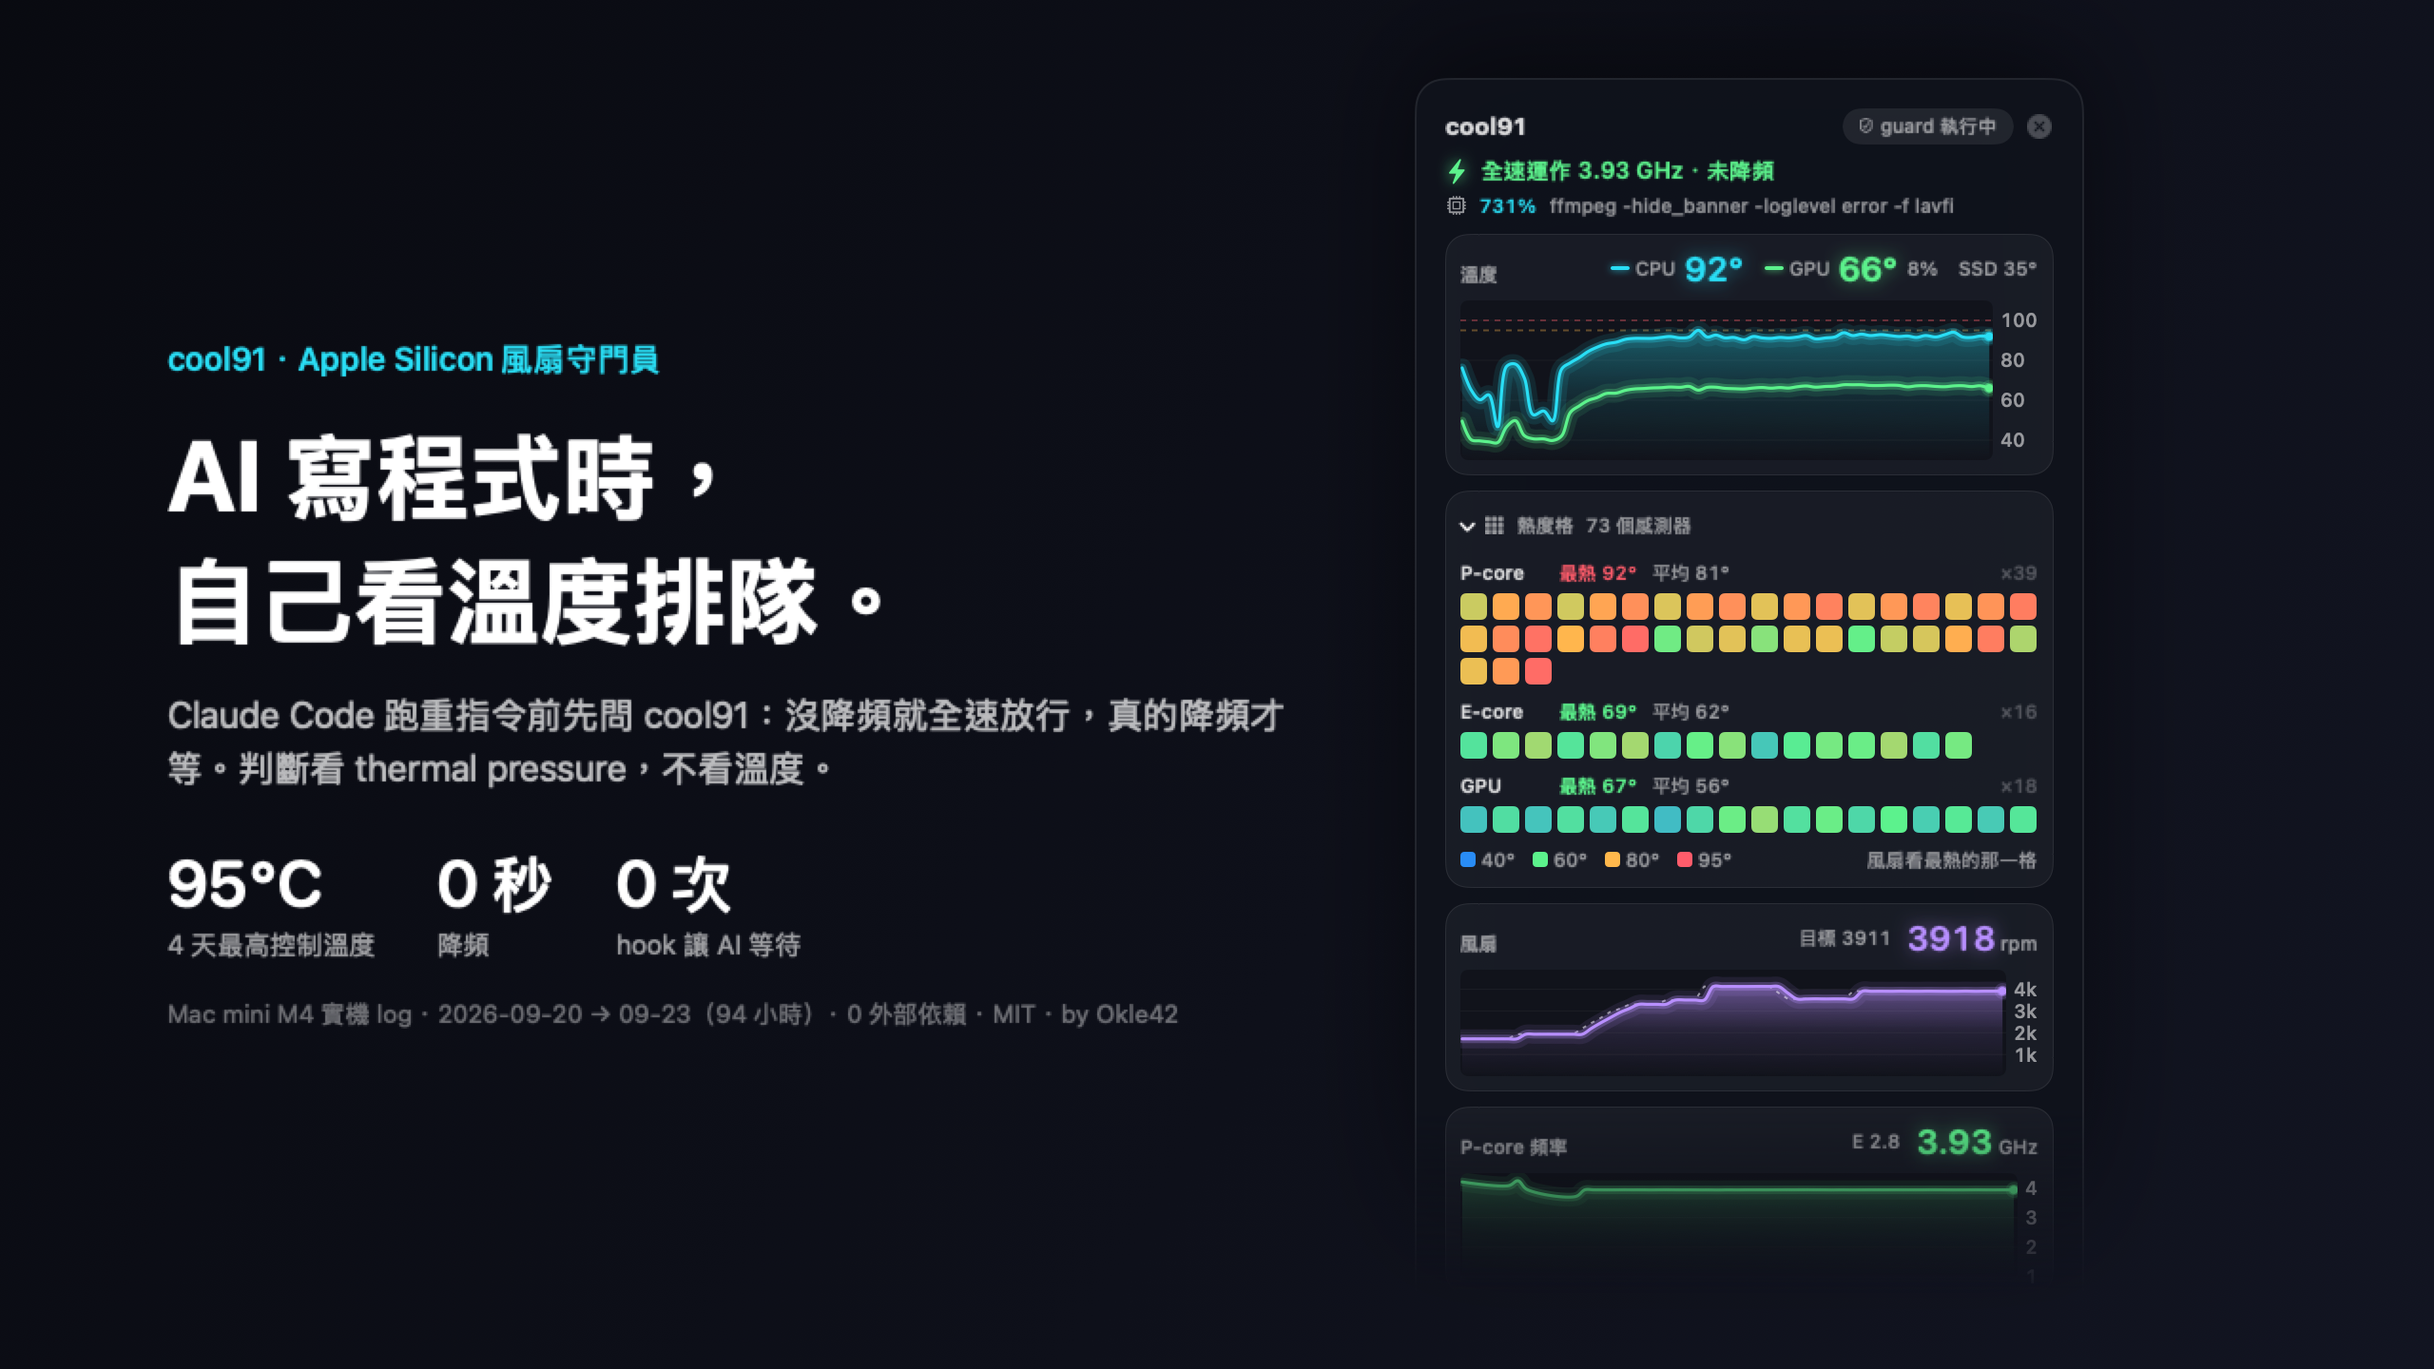
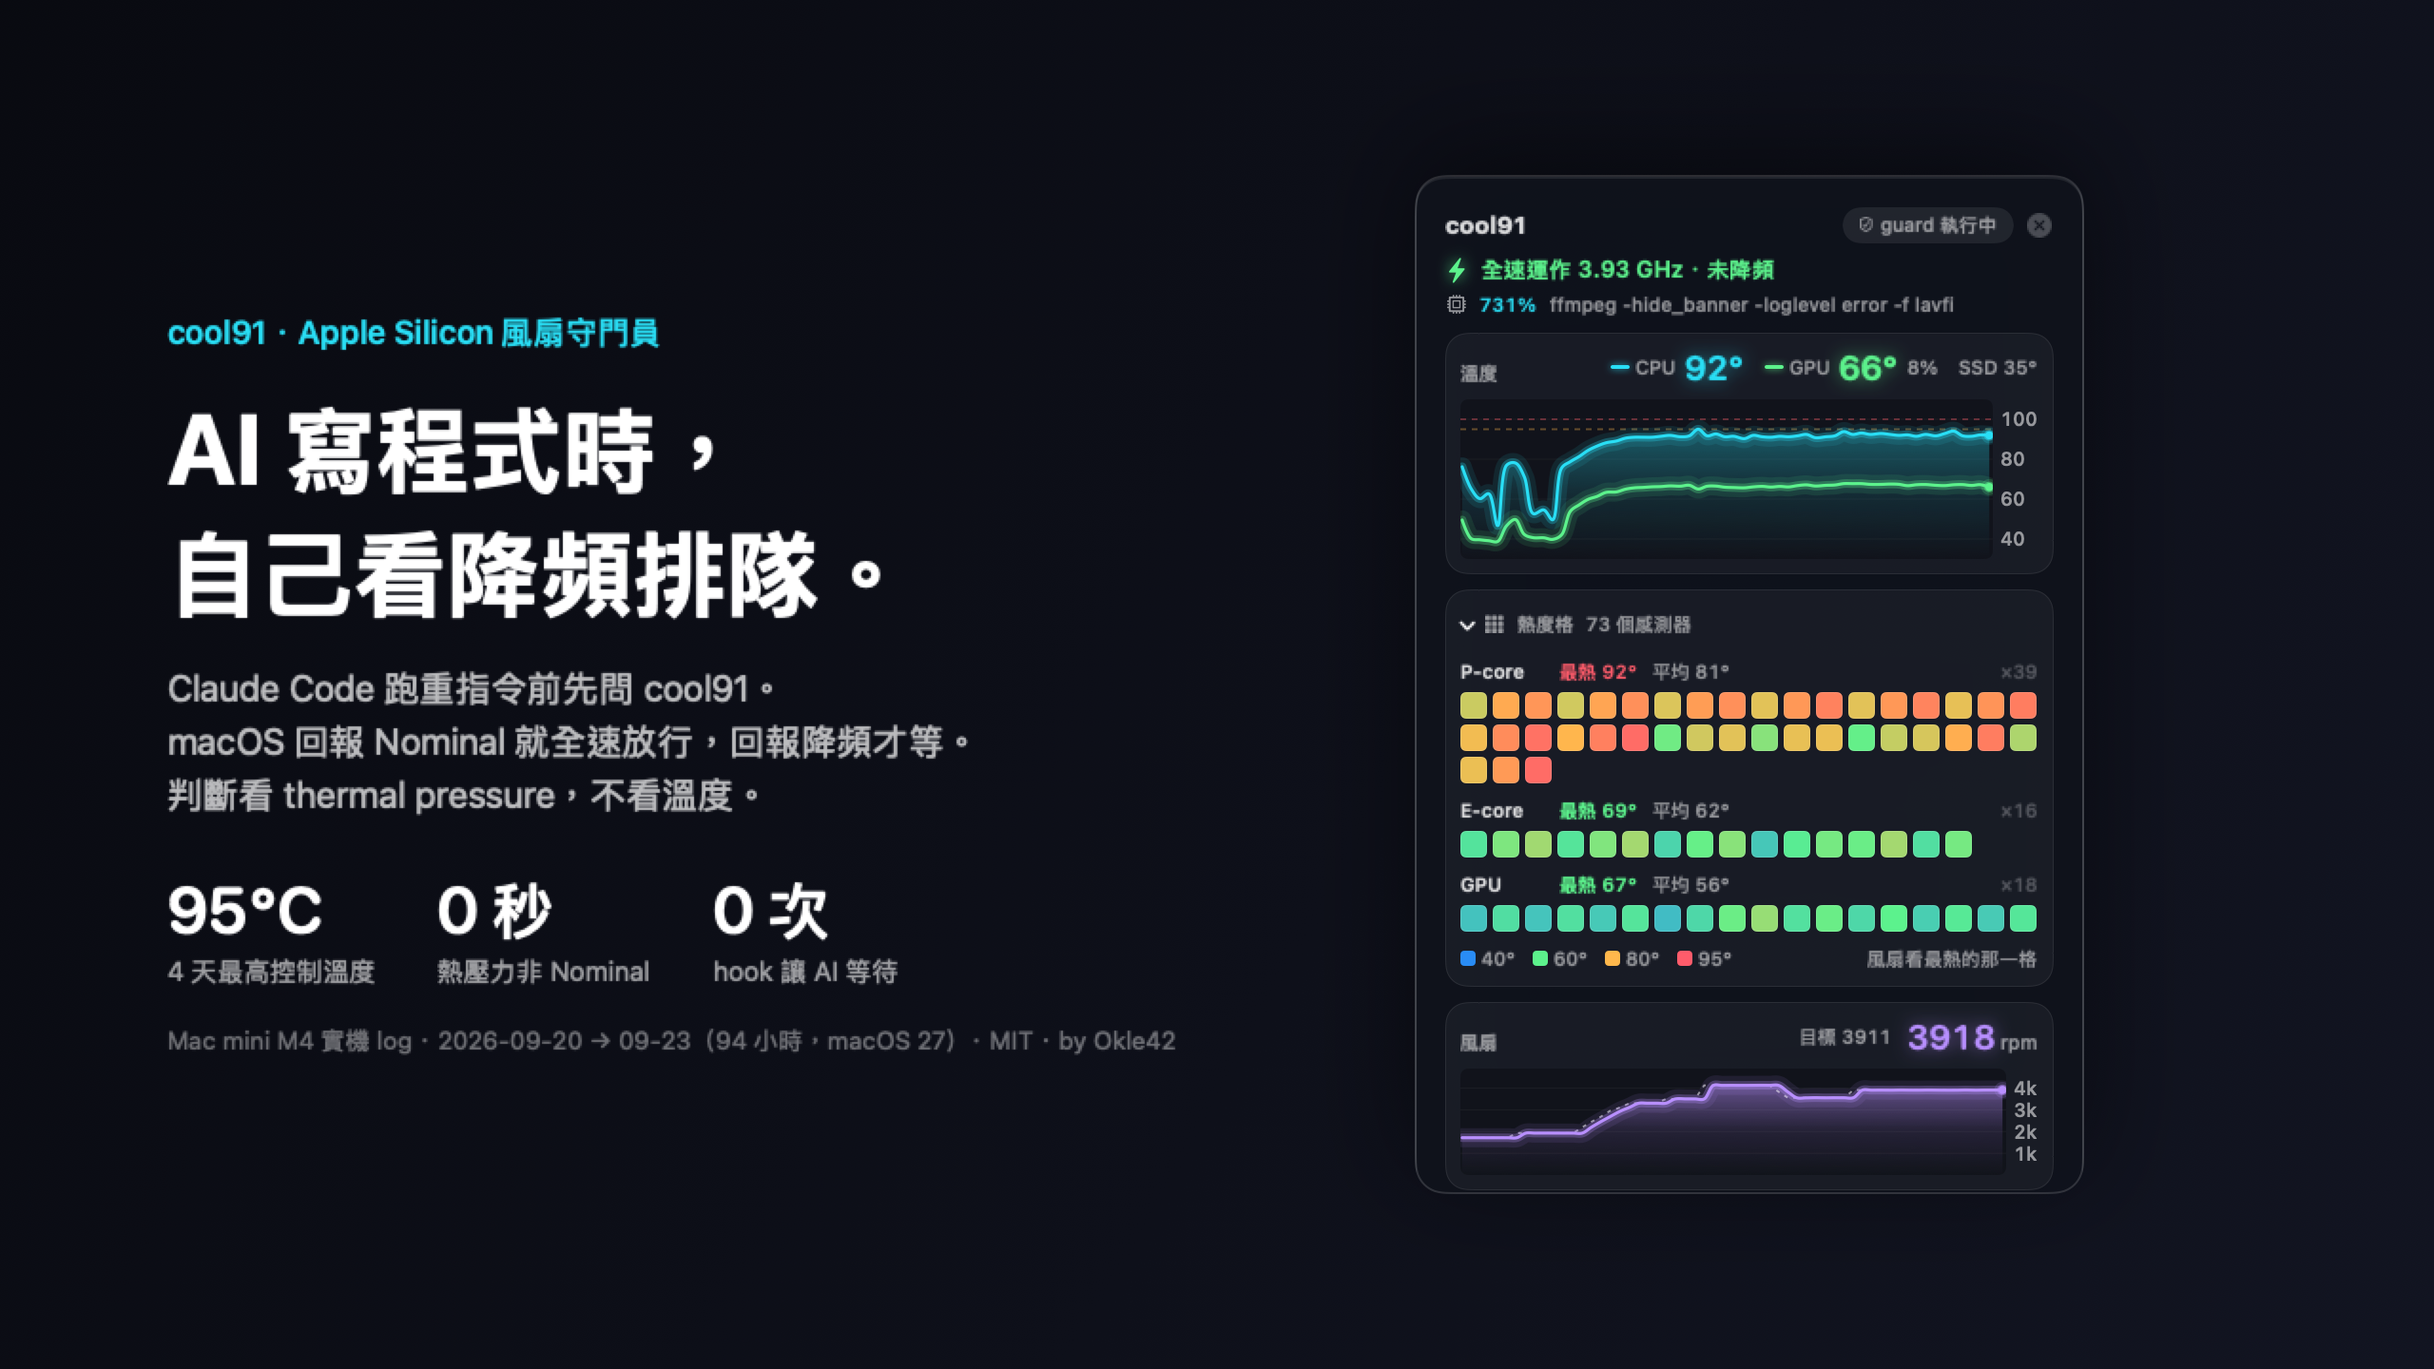
截圖與 demo：受控情境圖內浮水印、英文 GIF、hero 改「看降頻排隊」、面板小修
- 截圖器：情境檔 watermark 欄位 → 面板最上方獨立一列「受控情境 · 非實機紀錄 / Simulated」；終端機幀右上同款高對比膠囊
- throttle 情境 hotSeconds 與降頻 34 秒一致
- hero 中英：主標改「自己看降頻排隊」／"checks for throttling"；面板只取到風扇卡並加圓角收邊；避開孤字；英文版註明面板 UI 目前只有中文
- make-demo-gif.sh 支援 en → docs/img/demo-en.gif（README.en 改用）；閒置標題改短避免孤字
- 面板：閒置時頻率改小字＋上次數值；熱度格加細描邊（淺色底黃格才分得出邊）；「hook 等/擋」改「AI 等待/擋下」；勾選框與文字加間距
- .gitignore 補 __pycache__ 已在前一筆

diff --git a/scripts/snapshot/main.swift b/scripts/snapshot/main.swift
@@ -22,6 +22,8 @@ struct Scenario: Decodable {
     var history: [HistoryPoint]
     var sensors: [String: Double]
     var boostRemaining: Double?
+    /// 受控情境的圖內浮水印（例如「受控情境 · 非實機紀錄」）：有值就畫在面板右上角，單獨拿出去用也看得出是示意
+    var watermark: String?
 }
 
 func loadScenario(_ path: String) -> Scenario {
@@ -121,16 +123,33 @@ let monitor = Monitor()
 /// 視窗本身的底（正式 app 由 NSPanel 畫圓角與背景，這裡照著畫）
 struct Shot: View {
     let monitor: Monitor
+    var watermark: String? = nil
     var body: some View {
-        PanelView(monitor: monitor).content
+        VStack(spacing: 0) {
+            // 受控情境：浮水印獨立一列放在最上面（不蓋住面板內容），截圖單獨流出去也看得出是示意
+            if let watermark { HStack { Spacer(); SimTag(text: watermark) }.padding(.top, 10).padding(.horizontal, 12) }
+            PanelView(monitor: monitor).content
+        }
             .background(Neon.panelBG, in: RoundedRectangle(cornerRadius: 16, style: .continuous))
             .overlay(RoundedRectangle(cornerRadius: 16, style: .continuous).strokeBorder(Neon.hairline, lineWidth: 1))
     }
 }
 
+/// 受控情境膠囊：高對比（琥珀底、深色字），面板幀、終端機幀、單張截圖都用同一款、放右上角
+struct SimTag: View {
+    let text: String
+    var size: CGFloat = 12
+    var body: some View {
+        Text(text).font(.system(size: size, weight: .bold)).foregroundStyle(Color(red: 0.12, green: 0.08, blue: 0.02))
+            .padding(.horizontal, 10).padding(.vertical, 4)
+            .background(Color(red: 1, green: 0.74, blue: 0.30), in: Capsule())
+            .shadow(color: .black.opacity(0.35), radius: 4, y: 1)
+    }
+}
+
 @MainActor func render(_ appearance: NSAppearance.Name, to path: String) {
     inject()
-    let host = NSHostingView(rootView: Shot(monitor: monitor))
+    let host = NSHostingView(rootView: Shot(monitor: monitor, watermark: a.watermark))
     host.appearance = NSAppearance(named: appearance)
     let size = host.fittingSize
     let win = NSWindow(contentRect: NSRect(origin: .zero, size: size), styleMask: .borderless, backing: .buffered, defer: false)
@@ -184,6 +203,8 @@ struct TermFrame: Decodable {
     var lines: [Line]
     var footnote: String?
     var caption: String?
+    /// 受控情境標示（右上角膠囊，和面板幀同款）
+    var tag: String?
 }
 
 struct TerminalView: View {
@@ -318,18 +339,20 @@ struct PanelCrop: View {
     guard let img = NSImage(contentsOfFile: panelPNG) else { fatalError("讀不到 \(panelPNG)") }
     let zh = lang != "en"
     let stats: [(String, String)] = zh
-        ? [("95°C", "4 天最高控制溫度"), ("0 秒", "降頻"), ("0 次", "hook 讓 AI 等待")]
-        : [("95°C", "peak control temp"), ("0 s", "throttled"), ("0×", "times the AI had to wait")]
+        ? [("95°C", "4 天最高控制溫度"), ("0 秒", "熱壓力非 Nominal"), ("0 次", "hook 讓 AI 等待")]
+        : [("95°C", "peak control temp"), ("0 s", "non-Nominal pressure"), ("0×", "times the AI had to wait")]
+    // 面板只取到風扇卡為止（352pt 寬時約 536pt 高），用圓角框收邊，不讓下一張卡被切一半
+    let cropH: CGFloat = 536
     let v = ZStack(alignment: .topLeading) {
         Stage.bg
         HStack(alignment: .center, spacing: 56) {
             VStack(alignment: .leading, spacing: 20) {
                 Text(zh ? "cool42 · Apple Silicon 風扇守門員" : "cool42 · a fan guard for Apple Silicon")
                     .font(.system(size: 17, weight: .semibold)).foregroundStyle(Color(red: 0.16, green: 0.87, blue: 0.96))
-                Text(zh ? "AI 寫程式時，\n自己看溫度排隊。" : "Your AI agent checks\nthe heat before it builds.")
-                    .font(.system(size: 52, weight: .bold)).foregroundStyle(.white).lineSpacing(4).fixedSize(horizontal: false, vertical: true)
-                Text(zh ? "Claude Code 跑重指令前先問 cool42：沒降頻就全速放行，真的降頻才等。判斷看 thermal pressure，不看溫度。"
-                        : "A Claude Code hook asks cool42 before every shell command. Not throttling means full speed — it only waits when the chip is actually throttling, judged by thermal pressure, not temperature.")
+                Text(zh ? "AI 寫程式時，\n自己看降頻排隊。" : "Your AI agent checks for\nthrottling before it builds.")
+                    .font(.system(size: zh ? 52 : 48, weight: .bold)).foregroundStyle(.white).lineSpacing(4).fixedSize(horizontal: false, vertical: true)
+                Text(zh ? "Claude Code 跑重指令前先問 cool42。\nmacOS 回報 Nominal 就全速放行，回報降頻才等。\n判斷看 thermal pressure，不看溫度。"
+                        : "A Claude Code hook asks cool42 before every shell command.\nNominal thermal pressure means full speed; it waits only\nwhen macOS reports throttling — pressure, not temperature.")
                     .font(.system(size: 19)).foregroundStyle(Color.white.opacity(0.72)).lineSpacing(5).fixedSize(horizontal: false, vertical: true)
                 HStack(alignment: .top, spacing: 32) {
                     ForEach(stats, id: \.0) { v, k in
@@ -340,15 +363,21 @@ struct PanelCrop: View {
                     }
                 }
                 .padding(.top, 8)
-                Text(zh ? "Mac mini M4 實機 log · 2026-09-20 → 09-23（94 小時）· 0 外部依賴 · MIT · by Okle42"
-                        : "Real guard logs from a Mac mini M4 · Sep 20–23, 2026 (94 h) · zero dependencies · MIT · by Okle42")
+                Text(zh ? "Mac mini M4 實機 log · 2026-09-20 → 09-23（94 小時，macOS 27）· MIT · by Okle42"
+                        : "Mac mini M4 guard logs · Sep 20–23, 2026 (94 h, macOS 27) · MIT · by Okle42")
                     .font(.system(size: 13)).foregroundStyle(Color.white.opacity(0.4))
             }
             .frame(width: 600, alignment: .leading)
-            Image(nsImage: img).resizable().frame(width: 352, height: 352 * img.size.height / img.size.width)
-                .frame(height: 640, alignment: .top).clipped()
-                .mask(LinearGradient(stops: [.init(color: .black, location: 0.85), .init(color: .clear, location: 1)], startPoint: .top, endPoint: .bottom))
-                .shadow(color: .black.opacity(0.5), radius: 30, y: 12)
+            VStack(alignment: .leading, spacing: 10) {
+                Image(nsImage: img).resizable().frame(width: 352, height: 352 * img.size.height / img.size.width)
+                    .frame(height: cropH, alignment: .top)
+                    .clipShape(RoundedRectangle(cornerRadius: 16, style: .continuous))
+                    .overlay(RoundedRectangle(cornerRadius: 16, style: .continuous).strokeBorder(Color.white.opacity(0.14), lineWidth: 1))
+                    .shadow(color: .black.opacity(0.5), radius: 30, y: 12)
+                if !zh {
+                    Text("Panel UI is currently in Traditional Chinese").font(.system(size: 12)).foregroundStyle(Color.white.opacity(0.45))
+                }
+            }
         }
         .padding(.horizontal, 88).frame(maxHeight: .infinity)
     }
@@ -366,6 +395,9 @@ struct PanelCrop: View {
                 TerminalView(frame: f, width: 824, height: 470)
             }
             .padding(.horizontal, 28).padding(.top, 18)
+            if let tag = f.tag {
+                HStack { Spacer(); SimTag(text: tag, size: 14) }.padding(.top, 70).padding(.trailing, 48)
+            }
         }
         exportPNG(v, size: Stage.size, to: (outDir as NSString).appendingPathComponent(f.name + ".png"))
     }

diff --git a/Sources/cool42-panel/PanelApp.swift b/Sources/cool42-panel/PanelApp.swift
@@ -715,6 +715,7 @@ struct PanelView: View {
                 ForEach(items, id: \.key) { k, t in
                     RoundedRectangle(cornerRadius: 3, style: .continuous)
                         .fill(tempColor(t))
+                        .overlay(RoundedRectangle(cornerRadius: 3, style: .continuous).strokeBorder(Color.primary.opacity(0.14), lineWidth: 0.5))   // 淺色底上黃 / 綠格才分得出邊
                         .frame(width: 14, height: 14)
                         .neonGlow(t >= monitor.config.hotTemp ? tempColor(t).opacity(0.7) : .clear, radius: 3)
                         .help(String(format: "%@  %.1f°C", k, t))
@@ -788,7 +789,13 @@ struct PanelView: View {
             HStack(spacing: 8) {
                 if s.throttling { chipLabel("降頻 \(s.thermalPressure ?? "")", Neon.red) }
                 else if !idle, let e = s.ecoreMHz { Text(String(format: "E %.1f", e / 1000)).font(.caption2).monospacedDigit().foregroundStyle(.secondary) }
-                if idle { bigValue("閒置", .secondary) }
+                if idle {
+                    // 閒置時不用大字（視覺層級不該比其他卡的數值重），改小字＋最近一次的非閒置值
+                    Text("閒置").font(.caption.weight(.medium)).foregroundStyle(.secondary)
+                    if let last = monitor.history.last(where: { ($0.pMHz ?? 0) >= 100 })?.pMHz {
+                        Text(String(format: "上次 %.2f GHz", last / 1000)).font(.caption2).monospacedDigit().foregroundStyle(.tertiary)
+                    }
+                }
                 else { bigValue(String(format: "%.2f", p / 1000), s.throttling ? Neon.red : Neon.green, unit: "GHz") }
             }
         } chart: {
@@ -843,7 +850,7 @@ struct PanelView: View {
                 stat("hot", Format.hms(st.hotSeconds), color: st.hotSeconds > 0 ? Neon.amber : .secondary)
                 stat("critical", Format.hms(st.criticalSeconds), color: st.criticalSeconds > 0 ? Neon.red : .secondary)
                 stat("降頻", Format.hms(st.throttleSeconds), color: st.throttleSeconds > 0 ? Neon.red : .secondary)
-                stat("hook 等/擋", "\(st.hookWaits)/\(st.hookDenies)", color: .secondary)
+                stat("AI 等待/擋下", "\(st.hookWaits)/\(st.hookDenies)", color: .secondary)
                 stat("預熱", "\(st.boosts)", color: .secondary)
             }
             .neonCard(padding: 8)
@@ -925,7 +932,7 @@ struct PanelView: View {
             }
 
             Toggle(isOn: Binding(get: { monitor.draft.includeGPU }, set: { monitor.draft.includeGPU = $0 })) {
-                Text("GPU 溫度也納入").font(.caption2).foregroundStyle(.secondary)
+                Text("GPU 溫度也納入").font(.caption2).foregroundStyle(.secondary).padding(.leading, 4)
             }
             .toggleStyle(.checkbox).controlSize(.mini)
         }
@@ -1034,7 +1041,7 @@ struct PanelView: View {
                    range: ClosedRange<Double>, prefix: String) -> some View {
         let file = monitor.soundPath(hot: hot)
         return HStack(spacing: 4) {
-            Toggle(isOn: isOn) { Text(title).font(.caption2).foregroundStyle(isOn.wrappedValue ? color : .secondary) }
+            Toggle(isOn: isOn) { Text(title).font(.caption2).foregroundStyle(isOn.wrappedValue ? color : .secondary).padding(.leading, 4) }
                 .toggleStyle(.checkbox).controlSize(.mini)
             Button { monitor.play(hot: hot) } label: {
                 Image(systemName: "play.circle").font(.caption).foregroundStyle(.secondary)

diff --git a/scripts/snapshot/build-scenarios.py b/scripts/snapshot/build-scenarios.py
@@ -59,7 +59,7 @@ hist = json.load(open(os.path.join(cap, "load", "history.json")))
 dump("load", s, hist, sens, f"實機取樣（Mac mini M4，ffmpeg libx264 4K 編碼約 4 分鐘，load/state-{i}.json）")
 
 # 降頻：受控情境
-THROTTLE = {"pressure": "Moderate", "pcoreMHz": 3520, "dT": 5.0, "rpm": 4900, "throttleSeconds": 34, "hookWaits": 1}
+THROTTLE = {"pressure": "Moderate", "pcoreMHz": 3520, "dT": 5.0, "rpm": 4900, "throttleSeconds": 34, "hotSeconds": 34, "hookWaits": 1}
 t = json.loads(json.dumps(s))
 t["thermalPressure"] = THROTTLE["pressure"]
 t["pcoreMHz"] = THROTTLE["pcoreMHz"]
@@ -67,7 +67,7 @@ for k in ("cpuMax", "cpuAvg", "controlTemp"): t[k] = s[k] + THROTTLE["dT"]
 t["level"] = "hot" if t["controlTemp"] >= 95 else s["level"]
 t["fans"][0]["rpm"] = t["fans"][0]["target"] = THROTTLE["rpm"]
 t["guardTargetRPM"] = THROTTLE["rpm"]
-t["stats"] = dict(t.get("stats") or {}, throttleSeconds=THROTTLE["throttleSeconds"], hookWaits=THROTTLE["hookWaits"],
+t["stats"] = dict(t.get("stats") or {}, throttleSeconds=THROTTLE["throttleSeconds"], hotSeconds=THROTTLE["hotSeconds"], hookWaits=THROTTLE["hookWaits"],
                   maxTemp=max((t.get("stats") or {}).get("maxTemp", 0), t["controlTemp"]))
 th = json.loads(json.dumps(hist))
 n = len(th)
@@ -78,4 +78,5 @@ for j, p in enumerate(th[-8:]):       # 最後 40 秒：溫度爬升、風扇頂
 tsens = {k: v + THROTTLE["dT"] if k[:2] in ("Tp", "Te") else v for k, v in sens.items()}
 dump("throttle", t, th, tsens,
      "受控情境（非實機紀錄）：以 load 的實機取樣為底，pressure 改 Moderate、P-core 3.52 GHz（落在外部報告的原廠 M4 mini 降頻區間 3.3–3.8 GHz）、"
-     "CPU 感測器 +5°C、風扇 4900。近 94 小時實機 log 降頻 0 秒，沒有真實降頻畫面可截。")
+     "CPU 感測器 +5°C、風扇 4900。近 94 小時實機 log 降頻 0 秒，沒有真實降頻畫面可截。",
+     watermark="受控情境 · 非實機紀錄 / Simulated")
